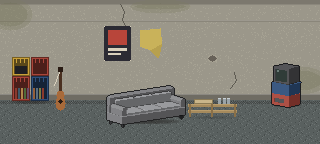
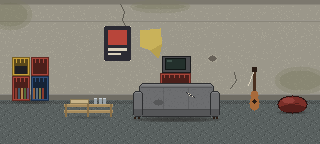
TV rooms watch from behind: straight sofa facing a centred TV (living B, C)
Owner picked "watch from behind" from mockups (a turned sofa looked small
and strange):
- B: the TV on a teak sideboard centred against the back wall, the rust
  sofa facing it with its back to us, the armchair turned toward the set;
  kidney table left, shelving + rubber plant at the ends. The print and the
  starburst clock move off the TV.
- C: the CRT on two stacked crates, the grey sofa facing it (a split + a
  stain on its back); pallet table left, guitar and a beanbag right.
- sofa_back draws the owner-approved sofa silhouette from behind; the stands
  are tall enough to show over it so the set never sits on the sofa.

Claude-Session: https://claude.ai/code/session_018G5NCP3m9WbvqqpohXSrqQ

Changed region(s): [[0.1562, 0.3889, 0.75, 0.8889], [0.8438, 0.4167, 0.9688, 0.8056], [0.7812, 0.4444, 0.8125, 0.7778]]

diff --git a/tools/art/living_room_variants.py b/tools/art/living_room_variants.py
@@ -1,7 +1,8 @@
 """Living room STYLE variants (mockups for the owner to compare) — same module geometry and rules as
 tools/art/living_room.py (variant A): the walking lane stays clear, both runtime window boxes stay
 bare wall, and each room has a SET-BACK piece on the left and the right (future scavenge spots on
-an upper plane). Turned seating (armchairs, B/C's sofas and TVs) is built in 3D by chair3d.py.
+an upper plane). Turned armchairs are built in 3D by chair3d.py; sofas stay straight (B/C show
+one from behind, facing the TV).
 
 Run:  python3 tools/art/living_room_variants.py [b c d]
 Out:  assets/rooms/living_room_{b,c,d}.png (+ _floor.png), scenes/Room_Modules/living_room_{b,c,d}.tscn
@@ -99,56 +100,105 @@ def b_wall(c):
 
 def b_decor(c):
     # an abstract print above the sofa
-    frame(c, 108, 30, 150, 56, hexc('d9cfb8'), hexc('8a826d'), hexc('d9cfb8'))
-    c.rect(113, 35, 128, 51, hexc('c8783b'))
-    c.ellipse(137, 42, 7, 7, hexc('d8a641'))
-    c.rect(131, 46, 145, 51, hexc('3d5c63'))
-    # a starburst clock
+    frame(c, 176, 30, 218, 56, hexc('d9cfb8'), hexc('8a826d'), hexc('d9cfb8'))
+    c.rect(181, 35, 196, 51, hexc('c8783b'))
+    c.ellipse(205, 42, 7, 7, hexc('d8a641'))
+    c.rect(199, 46, 213, 51, hexc('3d5c63'))
+    # a starburst clock (between the left window and the TV)
     for dx, dy in ((0, -9), (6, -6), (9, 0), (6, 6), (0, 9), (-6, 6), (-9, 0), (-6, -6)):
-        c.line(190, 42, 190 + dx, 42 + dy, hexc('b58f4a'))
-    c.ellipse(190, 42, 3, 3, hexc('d9c690'))
-    c.put(190, 41, lr.OUT)
+        c.line(112, 42, 112 + dx, 42 + dy, hexc('b58f4a'))
+    c.ellipse(112, 42, 3, 3, hexc('d9c690'))
+    c.put(112, 41, lr.OUT)
 
 
 def b_floor(c):
     parquet_floor(c, hexc('8a6443'), hexc('7c5a3b'), hexc('5b3e28'))
 
 
+def sofa_back(c, cx, base, pal, wear=False):
+    """The owner-approved sofa seen from BEHIND (round 13b — a TV room: the sofa faces the set on the
+    back wall, full width, never turned): the same silhouette as the front view — a tall back panel
+    between two lower arms — with piping along the top, the panel seams, a skirt and the back legs.
+    `wear` adds a split with stuffing and a stain (the student flat)."""
+    SOFA, SOFA_DK, SOFA_LT, SOFA_OUT = pal
+    x0, x1, b = cx - 43, cx + 43, base
+    c.shadow(cx, b + 1, 46, 3, 110)
+    for lx in (x0 + 5, x1 - 6):                                         # the back legs
+        c.rect(lx, b - 1, lx + 1, b, lr.OUT)
+    # the back panel
+    rrect(c, x0 + 6, b - 35, x1 - 6, b - 2, SOFA_OUT, 3)
+    rrect(c, x0 + 7, b - 34, x1 - 7, b - 3, SOFA, 2)
+    c.hline(x0 + 9, x1 - 9, b - 34, SOFA_LT)                            # the top, seen from a little above
+    c.hline(x0 + 8, x1 - 8, b - 33, shade(SOFA_LT, 0.94))
+    c.hline(x0 + 8, x1 - 8, b - 31, SOFA_DK)                            # piping
+    for k in (1, 2):                                                    # panel seams
+        sx = x0 + 6 + (x1 - x0 - 12) * k // 3
+        c.vline(sx, b - 30, b - 10, shade(SOFA, 0.88))
+    c.rect(x0 + 7, b - 9, x1 - 7, b - 3, SOFA_DK)                        # the skirt
+    c.hline(x0 + 7, x1 - 7, b - 9, shade(SOFA_DK, 0.85))
+    c.dither(x0 + 8, b - 29, x1 - 8, b - 11, shade(SOFA, 0.95), 0.12, 'random')
+    # the arms, lower, at each end
+    for ax0 in (x0, x1 - 9):
+        rrect(c, ax0, b - 27, ax0 + 9, b - 2, SOFA_OUT, 2)
+        rrect(c, ax0 + 1, b - 26, ax0 + 8, b - 3, SOFA, 1)
+        c.hline(ax0 + 2, ax0 + 7, b - 26, SOFA_LT)
+        c.rect(ax0 + 1, b - 9, ax0 + 8, b - 3, SOFA_DK)
+    for lx in (x0 + 1, x1 - 3):                                         # the front legs, peeking under the arms
+        c.rect(lx, b - 1, lx + 1, b, lr.OUT)
+    if wear:
+        c.line(cx + 10, b - 26, cx + 18, b - 21, SOFA_OUT)                # a split, stuffing showing
+        for (px_, py_) in ((cx + 12, b - 25), (cx + 14, b - 24), (cx + 16, b - 22), (cx + 13, b - 23)):
+            c.put(px_, py_, lr.STUFF)
+        c.ellipse(cx - 18, b - 16, 5, 3, shade(SOFA, 0.8))                  # a stain
+
+
 def b_furniture(c):
-    # WATCHING THE TELLY (owner round 13 — "if a room has a TV the furniture should be facing it"):
-    # the console TV stands turned in the left corner, the armchair and the sofa are turned toward it
-    # across the kidney table — all built in 3D (chair3d) so the angles hold together.
-    def rug(cc):
-        cc.ellipse(166, 121, 92, 13, hexc('8d6a2c'))
-        cc.ellipse(166, 121, 89, 11, hexc('b58a3a'))
-        cc.dither(80, 110, 252, 132, hexc('a47c33'), 0.25, 'random')
-    rug(c)
-    # RIGHT set-back: a teak shelving unit — records below, ornaments above (right of the R window box)
-    def shelf(c):
-        x0, x1, top = 12, 48, 44
-        c.shadow(30, 101, 21, 3, 90)
-        for sx in (x0, x1 - 2):
-            c.rect(sx, top, sx + 2, 100, hexc('6b4a31'))
-        for sy in (top, 60, 76, 92):
-            c.rect(x0, sy, x1, sy + 1, hexc('8a6443'))
-            c.hline(x0, x1, sy, hexc('9e7550'))
-        for i, rx in enumerate(range(16, 45, 2)):                     # records, spines out
-            c.vline(rx, 80, 91, [hexc('1f1f22'), hexc('a8453a'), hexc('2f3a55'), hexc('d8c79a')][i % 4])
-        c.ellipse(22, 72, 3, 4, hexc('c8783b'))                        # a vase
-        c.rect(32, 68, 42, 75, hexc('3d5c63'))                          # a boxed set
-        c.rect(18, 53, 30, 59, hexc('b58a3a'))                          # books lying flat
-        c.rect(34, 55, 44, 59, hexc('a8453a'))
-        c.poly([(38, 43), (44, 43), (43, 38), (39, 38)], hexc('d9cfb8'))   # a little potted plant on top
-        for (lx, ly) in ((37, 33), (41, 30), (45, 34)):
-            c.line(41, 38, lx, ly, hexc('4d6a3c'))
-    lr.shifted(c, shelf, 0, 260)
-    # the TV, turned in the corner toward the seats
-    tv = C3.draw_model(c, 34, 104, C3.console_tv(), -40,
-                       {'wood': hexc('7c5a3b'), 'metal': hexc('2a2a2c'), 'screen': hexc('2c3431'),
-                        'grille': hexc('6b4a31')}, outline=hexc('3f2a1b'), srad=17)
-    C3.screen_detail(c, 34, 104, *tv, cracked=True, grille=hexc('4a3020'))
+    # WATCHING THE TELLY FROM BEHIND (owner round 13b, picked from mockups): the TV sits centred
+    # against the back wall on a teak sideboard, the rust sofa faces it with its BACK to us (straight,
+    # full width), the armchair on the right turned toward the set; the kidney table on the left,
+    # the shelving + rubber plant at the ends — evenly spaced.
+    CX = 150
+    c.ellipse(CX, 121, 88, 12, hexc('8d6a2c'))                           # an oval mustard rug
+    c.ellipse(CX, 121, 85, 10, hexc('b58a3a'))
+    c.dither(CX - 80, 111, CX + 80, 131, hexc('a47c33'), 0.25, 'random')
+    # LEFT set-back: a teak shelving unit — records below, ornaments above
+    x0, x1, top = 12, 48, 44
+    c.shadow(30, 101, 21, 3, 90)
+    for sx in (x0, x1 - 2):
+        c.rect(sx, top, sx + 2, 100, hexc('6b4a31'))
+    for sy in (top, 60, 76, 92):
+        c.rect(x0, sy, x1, sy + 1, hexc('8a6443'))
+        c.hline(x0, x1, sy, hexc('9e7550'))
+    for i, rx in enumerate(range(16, 45, 2)):                             # records, spines out
+        c.vline(rx, 80, 91, [hexc('1f1f22'), hexc('a8453a'), hexc('2f3a55'), hexc('d8c79a')][i % 4])
+    c.ellipse(22, 72, 3, 4, hexc('c8783b'))                                # a vase
+    c.rect(32, 68, 42, 75, hexc('3d5c63'))                                  # a boxed set
+    c.rect(18, 53, 30, 59, hexc('b58a3a'))                                  # books lying flat
+    c.rect(34, 55, 44, 59, hexc('a8453a'))
+    # the sideboard + the wooden TV on it (screen cracked), rabbit ears — tall enough that the
+    # sideboard's top shows over the sofa (else the set reads as perched on the sofa's back)
+    TEAK, TEAK_DK, TEAK_LT = hexc('7c5a3b'), hexc('3f2a1b'), hexc('9e7550')
+    c.shadow(CX, 101, 36, 2, 90)
+    c.box(CX - 34, 72, CX + 34, 97, TEAK, TEAK_DK)
+    c.hline(CX - 33, CX + 33, 73, TEAK_LT)
+    c.hline(CX - 33, CX + 33, 75, TEAK_DK)
+    for sx in (CX - 11, CX + 11):
+        c.vline(sx, 76, 95, TEAK_DK)
+    for lx in (CX - 31, CX + 30):
+        c.rect(lx, 98, lx + 1, 100, hexc('2a2a2c'))
+    T = -12
+    c.box(CX - 15, 60 + T, CX + 15, 83 + T, TEAK, TEAK_DK)
+    c.hline(CX - 14, CX + 14, 61 + T, TEAK_LT)
+    c.box(CX - 12, 63 + T, CX + 5, 80 + T, hexc('2c3431'), hexc('1a1f1d'))
+    c.rect(CX - 10, 65 + T, CX - 7, 66 + T, hexc('4b5a55'))
+    c.line(CX - 6, 66 + T, CX + 2, 76 + T, hexc('7d8b86'))
+    c.line(CX - 2, 67 + T, CX - 4, 74 + T, hexc('7d8b86'))
+    for gy in range(64 + T, 80 + T, 2):                                     # speaker grille
+        c.hline(CX + 8, CX + 12, gy, hexc('5b3e28'))
+    c.line(CX - 2, 60 + T, CX - 9, 50 + T, hexc('2a2a2c'))
+    c.line(CX + 2, 60 + T, CX + 8, 49 + T, hexc('2a2a2c'))
+    # the kidney coffee table on the left
     def _table(c):
-        # a kidney coffee table on hairpin legs
         c.shadow(214, 117, 26, 2, 100)
         c.ellipse(214, 101, 24, 4, hexc('8a6443'))
         c.ellipse(214, 100, 23, 3, hexc('9e7550'))
@@ -156,10 +206,17 @@ def b_furniture(c):
             c.line(lx, 104, lx - 2, 116, hexc('2a2a2c'))
         c.rect(206, 95, 210, 99, hexc('d9cfb8'))
         c.ellipse(222, 99, 4, 1, hexc('c8783b'))
-    lr.shifted(c, _table, 0, -56)
-    # the rust sofa, turned toward the TV
-    C3.draw_model(c, 226, 121, C3.sofa_model(), 35,
-                  {'fab': hexc('a4532e'), 'fab_lt': hexc('bd6a41'), 'wood': hexc('2e1e14')}, srad=36)
+    lr.shifted(c, _table, 0, -140)
+    # the rust sofa, its back to us, facing the set
+    sofa_back(c, CX, 118, (hexc('a4532e'), hexc('843f22'), hexc('bd6a41'), hexc('4a2412')))
+    # a big rubber plant in the corner, some leaves browning (clear of the side-wall column x 316)
+    def plant(c):
+        c.shadow(302, 113, 8, 2, 80)
+        c.poly([(296, 100), (308, 100), (306, 112), (298, 112)], hexc('d9cfb8'))
+        for i, (lx, ly) in enumerate(((294, 70), (300, 62), (307, 72), (292, 84), (309, 86), (301, 80))):
+            c.ellipse(lx, ly, 4, 6, hexc('4d6a3c') if i % 3 else hexc('7c6a38'))
+            c.line(302, 99, lx, ly + 5, hexc('3e5530'))
+    lr.shifted(c, plant, -10, 0)
 
 
 def c_wall(c):
@@ -208,19 +265,11 @@ def c_furniture(c):
         col = lr.BOOKS[i % len(lr.BOOKS)]
         c.rect(bx, 88, bx + 1, 98, col)
     c.rect(15, 66, 26, 73, hexc('1f1f22'))                                 # records
-    def guitar(c):
-        # a guitar leaning against the wall beside the crates, a string snapped
-        c.ellipse(306, 102, 5, 7, hexc('a86a3a'))
-        c.ellipse(306, 94, 4, 5, hexc('a86a3a'))
-        c.ellipse(306, 100, 2, 2, hexc('2a1c14'))
-        c.rect(305, 70, 307, 89, hexc('4a3020'))
-        c.rect(304, 66, 308, 70, hexc('2a1c14'))
-        c.line(305, 71, 300, 84, hexc('d9d0bc'))
-    lr.shifted(c, guitar, 1, -246)
-    # WATCHING THE TELLY (owner round 13): the slumped grey sofa turned toward the CRT, which sits
-    # on two crates in the right corner turned back toward it, the pallet table between them.
-    C3.draw_model(c, 146, 121, C3.sofa_model(), -35,
-                  {'fab': hexc('7a7b7e'), 'fab_lt': hexc('939497'), 'wood': hexc('2c2d2f')}, srad=36)
+    # WATCHING THE TELLY FROM BEHIND (owner round 13b): the CRT on two crates centred against the
+    # back wall, the slumped grey sofa facing it with its back to us; the pallet table on the left,
+    # a guitar against the wall and a beanbag on the right — evenly spaced.
+    CX = 176
+
     def _pallet(c):
         # a pallet table: pizza box, cans
         c.shadow(214, 117, 26, 2, 100)
@@ -233,11 +282,38 @@ def c_furniture(c):
         for cx_ in (220, 225, 229):
             c.rect(cx_, 98, cx_ + 2, 103, hexc('9aa3a8'))
             c.hline(cx_, cx_ + 2, 98, hexc('c9d0d4'))
-    lr.shifted(c, _pallet, 0, -2)
-    tv = C3.draw_model(c, 286, 104, C3.crt_on_crates(), 40,
-                       {'crate': hexc('a8453a'), 'crate2': hexc('2f4f7a'), 'tv': hexc('4a4a4d'),
-                        'screen': hexc('23302c')}, outline=hexc('1c1c1e'), srad=16)
-    C3.screen_detail(c, 286, 104, *tv)
+    lr.shifted(c, _pallet, 0, -126)
+    # the CRT on two crates, a console + its cable
+    def _tv(c):
+        c.shadow(276, 101, 20, 2, 90)
+        for (y0, y1, col) in ((87, 100, hexc('2f4f7a')), (73, 86, hexc('a8453a'))):   # two crates, stacked
+            c.box(260, y0, 290, y1, col, shade(col, 0.6))
+            c.rect(262, y0 + 2, 288, y1 - 2, shade(col, 0.45))
+            for gx in range(264, 288, 5):
+                c.vline(gx, y0 + 2, y0 + 4, col)
+        c.box(262, 56, 290, 72, hexc('4a4a4d'), hexc('1c1c1e'))              # the CRT on top
+        c.box(265, 58, 285, 69, hexc('23302c'), hexc('111615'))
+        c.rect(267, 60, 271, 61, hexc('3e524b'))
+        c.rect(265, 91, 279, 94, hexc('5a5a5f'))                             # a console in the lower crate
+    lr.shifted(c, _tv, 0, CX - 276)
+    sofa_back(c, CX, 118, (hexc('6d6e70'), hexc('555658'), hexc('848587'), hexc('2c2d2f')), wear=True)
+    def guitar(c):
+        # a guitar leaning against the wall, a string snapped
+        c.ellipse(306, 102, 5, 7, hexc('a86a3a'))
+        c.ellipse(306, 94, 4, 5, hexc('a86a3a'))
+        c.ellipse(306, 100, 2, 2, hexc('2a1c14'))
+        c.rect(305, 70, 307, 89, hexc('4a3020'))
+        c.rect(304, 66, 308, 70, hexc('2a1c14'))
+        c.line(305, 71, 300, 84, hexc('d9d0bc'))
+    lr.shifted(c, guitar, 1, -52)
+    # a slumped beanbag in the corner
+    BB, BB_DK, BB_LT = hexc('7a2e28'), hexc('551f1b'), hexc('94403a')
+    c.shadow(292, 112, 16, 2, 110)
+    c.ellipse(292, 104, 15, 9, hexc('2a1210'))
+    c.ellipse(292, 104, 14, 8, BB)
+    c.ellipse(292, 108, 13, 4, BB_DK)
+    c.ellipse(288, 100, 6, 3, BB_LT)
+    c.line(284, 105, 298, 103, BB_DK)
 
 
 # --- D: GRANDMOTHER'S PARLOUR ------------------------------------------------------------------
@@ -491,7 +567,7 @@ import chair3d as C3
 
 
 def b_chair(c):
-    C3.armchair(c, 104, 118, 70, {'fab': hexc('a8843a'), 'fab_lt': hexc('b8944a'), 'wood': hexc('3a2618')},
+    C3.armchair(c, 240, 118, 110, {'fab': hexc('a8843a'), 'fab_lt': hexc('b8944a'), 'wood': hexc('3a2618')},
                 style='club', plan={3: 'tipped'}, key='living_b')              # mustard, facing the telly
 
 
@@ -525,13 +601,13 @@ def _variant(wall, decor, floor, furniture, seed):
     return bare, floor, build
 
 
-B_ANCHORS = [('anchor_living_records', 290, 86, 'bp'), ('anchor_living_teak_shelf', 298, 72, 'bp'),
-             ('anchor_living_console_tv', 34, 86, 'bp'), ('anchor_living_kidney_table', 158, 100, ''),
-             ('anchor_centre_sofaleft', 212, 106, ''), ('anchor_centre_sofaright', 240, 100, ''),
-             ('anchor_living_armchair', 104, 104, '')]
+B_ANCHORS = [('anchor_living_records', 30, 86, 'bp'), ('anchor_living_teak_shelf', 38, 72, 'bp'),
+             ('anchor_living_console_tv', 146, 58, 'bp'), ('anchor_living_kidney_table', 76, 100, ''),
+             ('anchor_centre_sofaleft', 128, 100, ''), ('anchor_centre_sofaright', 172, 98, ''),
+             ('anchor_living_armchair', 240, 104, '')]
 C_ANCHORS = [('anchor_living_crates', 22, 68, 'bp'), ('anchor_living_crate_books', 36, 92, 'bp'),
-             ('anchor_living_pallet_table', 203, 101, ''), ('anchor_centre_sofaleft', 132, 106, ''),
-             ('anchor_centre_sofaright', 160, 100, ''), ('anchor_living_crt', 286, 84, 'bp')]
+             ('anchor_living_pallet_table', 79, 101, ''), ('anchor_centre_sofaleft', 154, 100, ''),
+             ('anchor_centre_sofaright', 198, 98, ''), ('anchor_living_crt', 170, 64, 'bp')]
 D_ANCHORS = [('anchor_living_piano', 26, 74, 'bp'), ('anchor_living_tea_table', 124, 99, ''),
              ('anchor_centre_sofaleft', 177, 103, ''), ('anchor_centre_sofaright', 212, 101, ''),
              ('anchor_living_china_cabinet', 280, 76, 'bp'), ('anchor_living_cabinet_cupboard', 274, 90, 'bp'),

diff --git a/docs/art_reference/modules/README.md b/docs/art_reference/modules/README.md
@@ -112,9 +112,9 @@ byte-identical PNGs). Scripts: `<type>.py` = variant a, `<type>_variants.py` = b
 four in `bathroom.py`); shared pieces in `tools/art/furn.py` (chest, shelves, table, chairs, boxes,
 posters, rugs, lamps, walls + tiling floors).
 - living room: a green sofa + coffee table + armchair (a conversation group) / b teak mid-century
-  (console TV turned in the left corner, armchair + sofa turned to it) / c run-down flat (crates, a
-  grey sofa turned to a CRT on crates in the right corner, the pallet table between) / d
-  grandmother's parlour (piano, chintz sofa, china cabinet).
+  (the TV on a sideboard against the back wall, the sofa facing it from in front, back to us, the
+  armchair turned to it) / c run-down flat (the same, a CRT on crates; pallet table, guitar,
+  beanbag) / d grandmother's parlour (piano, chintz sofa, china cabinet).
 - bedroom: a dressing table + wardrobe / b teenager's (desk + CRT, beanbag, bed on the right) /
   c sick room (iron bedstead, drip, wheelchair, med trolley) / d squat (mattress on the floor,
   clothes rail, backpack, crates).
@@ -184,12 +184,14 @@ base and casters sticking out; study B {2 down, 3 down_blood}.
 
 **SEAT THE ROOM SENSIBLY (owner round 13 — "if a room has a TV then the furniture should be facing
 it … if there is no TV it's weird a sofa would be facing forward and the armchair facing away")**:
-- A room WITH A TV: the set stands turned in a CORNER (never flat against the back wall behind the
-  seats), and the sofa and armchair are turned toward it — living B, C. That needs angled sofas and
-  sets, so `chair3d` also builds them: `sofa_model(width, seats)` (the armchair's make, one seat + back
-  cushion per place), `console_tv()`, `crt_on_crates()`, `office_chair()` (five-star base) — drawn with
-  `C3.draw_model(c, cx, base_y, model, yaw, pal, outline, srad)`; `screen_detail` puts glare / a crack /
-  grille slats on the set's own face so they turn with it.
+- A room WITH A TV (round 13b, the owner picked "watch from behind" from mockups — a turned sofa
+  "looks smaller than desired … strange"): the set stands CENTRED against the back wall on a stand
+  tall enough that the stand's top shows over the sofa (else the set reads as perched on the sofa's
+  back), and the STRAIGHT full-width sofa faces it with its back to us (`sofa_back` in
+  living_room_variants.py — the front view's silhouette: back panel between lower arms, piping,
+  seams, skirt, legs). The armchair sits to one side turned toward the set (B: yaw 110). Living B,
+  C. (`chair3d` can still build turned sofas / TVs — `sofa_model`, `console_tv`, `crt_on_crates`,
+  drawn with `draw_model` + `screen_detail` — but don't turn a sofa.) `office_chair()` is 3D too.
 - A room WITHOUT one: the sofa faces the room and the armchair sits across the coffee table from it,
   turned back toward the sofa (a conversation group — living A), or turned to the fire (E).
 - EVEN SPACING (round 13b — "good even spacing across the modules is essential for our scavenge
